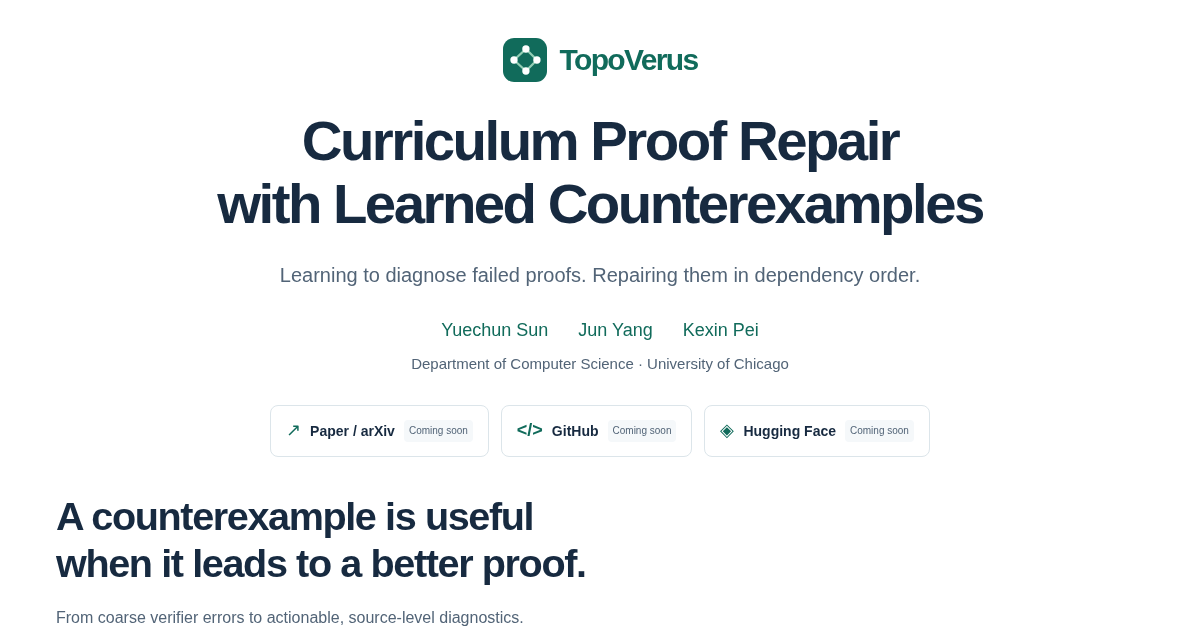
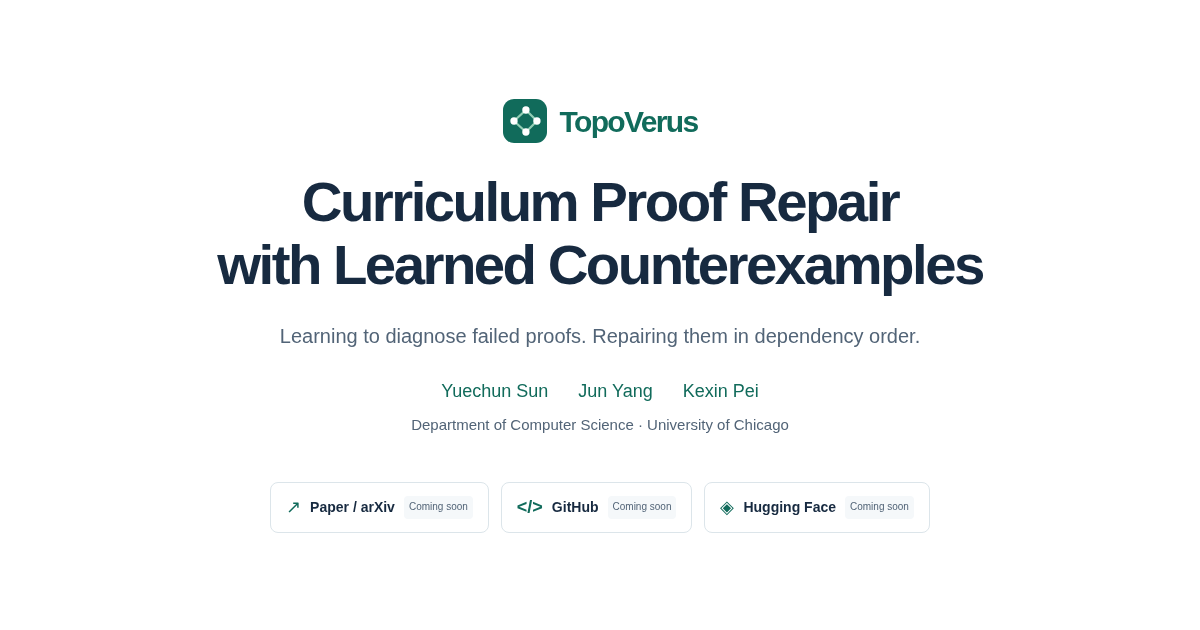
Polish share preview and format stylesheet

diff --git a/styles.css b/styles.css
@@ -1,1 +1,211 @@
-:root{--ink:#172a40;--muted:#526477;--green:#116b5b;--green-soft:#edf7f2;--blue:#285aae;--line:#dce5ea;--surface:#f5f8fa;--white:#fff;font-family:"Avenir Next","Segoe UI",sans-serif;color:var(--ink);background:var(--white);font-synthesis:none}*{box-sizing:border-box}html{scroll-behavior:smooth;scroll-padding-top:90px}body{margin:0;line-height:1.65}a{color:var(--green);text-decoration:none}a:hover{text-decoration:underline}button{font:inherit;cursor:pointer}button,a{-webkit-tap-highlight-color:transparent}button:focus-visible,a:focus-visible,[tabindex]:focus-visible{outline:3px solid var(--blue);outline-offset:5px}img{max-width:100%;height:auto}p{margin:0 0 1em}h1,h2,h3{line-height:1.2;margin:0;font-weight:650;letter-spacing:-.035em}h2{font-size:clamp(29px,3.3vw,42px)}h3{font-size:20px;letter-spacing:-.02em}.wrap{max-width:1160px;margin:auto;padding-left:36px;padding-right:36px}.section{padding-top:90px;padding-bottom:90px}.header{border-bottom:1px solid var(--line);background:rgba(255,255,255,.96);position:sticky;top:0;z-index:20}.nav{height:72px;display:flex;align-items:center;justify-content:space-between;gap:24px}.brand{display:flex;align-items:center;gap:10px;font-weight:750;font-size:20px;letter-spacing:-.035em;color:var(--ink)}.nav-links{display:flex;gap:29px;font-size:14px;font-weight:550}.nav-links a{color:var(--muted)}.skip{position:fixed;left:15px;top:-80px;z-index:100;padding:12px;background:white}.skip:focus{top:10px}.hero{text-align:center;padding-top:67px;padding-bottom:58px}.project-mark{display:flex;align-items:center;justify-content:center;gap:13px;font-size:30px;font-weight:750;letter-spacing:-.055em;color:var(--green);margin-bottom:24px}h1{font-size:clamp(34px,4.7vw,58px);line-height:1.12;letter-spacing:-.045em}.hero-summary{font-size:20px;color:var(--muted);margin:24px 0}.mobile-break{display:none}.authors{display:flex;justify-content:center;gap:30px;margin:0 0 6px;font-size:18px}.affiliation{font-size:15px;color:var(--muted)}.resource-links{display:flex;justify-content:center;gap:12px;flex-wrap:wrap;margin:29px 0 43px}.resource{display:flex;align-items:center;gap:9px;padding:10px 15px;border:1px solid var(--line);border-radius:8px;font-weight:600;font-size:14px;color:var(--ink);background:#fff}.resource small{font-size:10px;font-weight:500;color:var(--muted);background:var(--surface);border-radius:4px;padding:3px 5px}.resource[aria-disabled=true]{cursor:default}.resource[aria-disabled=true]:hover{text-decoration:none}.resource>span{font-size:18px;color:var(--green)}.hero-diagram{background:var(--surface);border:1px solid var(--line);border-radius:16px;display:grid;grid-template-columns:1fr 25px 1fr 25px 1fr 25px 1fr;padding:30px 30px 0;align-items:center;text-align:center}.flow-node{display:flex;align-items:center;flex-direction:column;gap:5px}.flow-symbol{display:grid;place-items:center;color:var(--blue);background:#e8eef8;width:38px;height:38px;font-family:Georgia,serif;font-size:26px;border-radius:10px;margin-bottom:6px}.flow-symbol.error{color:#a04946;background:#f7e9e7}.flow-symbol.success{color:var(--green);background:#e0efe7}.flow-node strong{font-size:15px}.flow-node>span:last-child{font-size:12px;color:var(--muted)}.flow-arrow{color:#8296a4;font-size:25px}.flow-caption{grid-column:1/-1;border-top:1px solid var(--line);margin-top:26px;padding:12px;font-size:12px;color:var(--green);font-weight:550}.section-heading>p{color:var(--muted);margin:17px 0 0;max-width:64ch}.overview{padding-top:36px}.overview .section-heading{margin-bottom:28px}.overview-copy{font-size:17px;max-width:84ch}.findings{display:grid;grid-template-columns:repeat(4,1fr);gap:24px;margin:37px 0 16px;padding:27px 0;border-top:1px solid var(--line);border-bottom:1px solid var(--line)}.findings>div{display:flex;flex-direction:column;gap:5px}.findings strong{font-size:40px;line-height:1.1;font-weight:650;letter-spacing:-.045em;color:var(--green)}.findings strong span{font-size:24px}.findings>div>span{font-size:13px;color:var(--muted)}.note{font-size:12px;color:var(--muted);line-height:1.6;margin-bottom:0}.method-band{background:var(--surface);border-block:1px solid var(--line)}.explorer{display:grid;grid-template-columns:1fr 1.45fr;gap:35px;margin:40px 0}.step-list{display:flex;flex-direction:column;justify-content:center;gap:10px}.step{display:flex;gap:15px;align-items:flex-start;text-align:left;padding:19px 17px;border:1px solid transparent;border-radius:10px;background:transparent;color:var(--muted);width:100%}.step>span{border:1px solid #b8c8d0;border-radius:50%;width:28px;height:28px;flex-shrink:0;display:grid;place-items:center;font-size:13px}.step strong{font-size:15px;color:var(--ink)}.step p{font-size:13px;margin:5px 0 0}.step.active{background:var(--white);border-color:#b8d8cb;box-shadow:0 3px 10px #172a4006}.step.active>span{background:var(--green);color:#fff;border-color:var(--green)}.graph-panel{background:white;border:1px solid var(--line);border-radius:14px;padding:22px}.dependency-graph{width:100%;height:auto}.edges{stroke:#8fa3ae;color:#8fa3ae}.scc{fill:#f5f8fa;stroke:#b9c9d2;stroke-dasharray:5 5}.scc-label{fill:var(--muted);font-size:13px}.invariant rect{fill:#fff;stroke:#c9d5dc;stroke-width:1.5}.invariant text{fill:#64798b;font-size:26px;font-weight:600}.invariant.reached rect{fill:#e4f4eb;stroke:var(--green)}.invariant.reached text{fill:var(--green)}.stage-detail{border-top:1px solid var(--line);padding-top:18px;min-height:113px}.stage-detail code{color:var(--green);font-size:14px}.stage-detail p{font-size:14px;color:var(--muted);margin-top:8px}.graph-panel>.note{margin-top:10px}.method-notes{display:grid;grid-template-columns:repeat(3,1fr);gap:35px}.method-notes h3{font-size:18px;margin-bottom:12px}.method-notes p{font-size:14px;color:var(--muted);margin:0}.wide-figure{margin:34px 0 0}.wide-figure img{width:100%;border:1px solid var(--line);border-radius:8px;padding:12px;background:white}figcaption{font-size:13px;color:var(--muted);margin-top:14px;line-height:1.7}code{font-family:"SFMono-Regular",Consolas,"Liberation Mono",monospace;font-size:.91em}.results-band{background:#f7faf9;border-block:1px solid var(--line)}.result-topline{display:flex;align-items:center;justify-content:space-between;gap:20px;margin:35px 0 22px}.result-topline strong{font-size:24px;color:var(--green);letter-spacing:-.02em}.result-topline p{font-size:13px;color:var(--muted);margin:4px 0 0}.metric-toggle{display:flex;padding:4px;border:1px solid var(--line);border-radius:8px;background:#fff;flex-shrink:0}.metric-toggle button{font-size:13px;padding:8px 13px;border:0;background:none;border-radius:5px;color:var(--muted)}.metric-toggle button.active{background:var(--green);color:white}.table-scroll{overflow-x:auto;max-width:100%}table{border-collapse:collapse;width:100%;font-size:13px;text-align:right;font-variant-numeric:tabular-nums}caption{text-align:left;color:var(--muted);font-size:12px;padding:0 0 12px}th,td{padding:13px 12px;border-bottom:1px solid var(--line);white-space:nowrap}th:first-child{text-align:left}thead th{font-size:11px;font-weight:650;background:#eaf1ee}thead small{display:block;font-size:10px;font-weight:400;color:var(--muted);margin-top:3px}tbody th{font-weight:500}tbody tr{background:white}tbody tr.ours{background:#e3f2e9;color:#0e594c}tbody tr.ours th,tbody tr.ours td{font-weight:750}tbody th small{display:block;font-size:10px;font-weight:500}tbody tr:nth-child(6) th,tbody tr:nth-child(6) td{border-top:2px solid #cbd9d3}.table-scroll+.note{margin-top:15px}.result-caveat{font-size:14px;color:var(--muted);margin-top:16px;max-width:85ch}.scaling{margin-top:55px;border-top:1px solid var(--line);padding-top:40px;display:grid;grid-template-columns:1fr 2fr;gap:36px}.scaling h3{font-size:26px;margin-bottom:17px}.scaling p{font-size:14px;color:var(--muted)}.scaling-plots{min-width:0}.legend{display:block;width:84%;margin:0 auto 20px}.plot-pair{display:grid;grid-template-columns:1fr 1fr;gap:20px}.plot-pair figure{margin:0}.plot-pair img{display:block;width:100%}.plot-pair figcaption{text-align:center;font-size:12px}.transfer-layout{display:grid;grid-template-columns:1fr 1.2fr;gap:40px;margin-top:35px}.transfer-layout p{font-size:15px;color:var(--muted)}.transfer table{font-size:12px}.transfer th,.transfer td{padding:15px 12px}.resources-section{background:var(--surface);border-block:1px solid var(--line)}.release-list{display:grid;grid-template-columns:repeat(3,1fr);gap:35px;margin:35px 0 50px}.release-list>div{border-top:2px solid #c1d4ce;padding-top:20px}.release-list p{font-size:14px;color:var(--muted);margin:12px 0;max-width:28ch}.release-list a{font-size:13px;font-weight:650}.release-list a[aria-disabled=true]{color:var(--muted);cursor:default}.release-list a[aria-disabled=true]:hover{text-decoration:none}.citation-heading{display:flex;align-items:center;gap:15px;margin-bottom:14px}.citation-heading button{margin-left:auto;border:1px solid #c8d3dd;padding:7px 12px;background:#fff;color:var(--ink);font-size:12px;border-radius:6px}#copy-status{font-size:12px;color:var(--green)}.citation{margin:0 0 12px;background:#fff;border:1px solid var(--line);padding:24px;border-radius:8px;overflow-x:auto;font-size:13px;line-height:1.7}footer{display:flex;align-items:center;justify-content:space-between;gap:20px;padding-top:28px;padding-bottom:28px;font-size:12px;color:var(--muted)}footer p{margin:0}footer .brand{font-size:16px}[hidden]{display:none!important}@media(min-width:1500px){.hero{padding-top:85px}}@media(max-width:800px){.wrap{padding-left:24px;padding-right:24px}.section{padding-top:65px;padding-bottom:65px}.hero{padding-top:45px}.nav-links{gap:17px;font-size:12px}.hero-diagram{padding:24px 15px 0;grid-template-columns:1fr 18px 1fr 18px 1fr 18px 1fr}.flow-node strong{font-size:12px}.flow-node>span:last-child{font-size:10px}.explorer{grid-template-columns:1fr;gap:22px}.step-list{flex-direction:row;gap:5px}.step{padding:12px;gap:8px}.step strong{font-size:12px}.step p{display:none}.method-notes{gap:22px}.result-topline{align-items:flex-start;flex-direction:column}.scaling{grid-template-columns:1fr}.transfer-layout{grid-template-columns:1fr;gap:20px}.overview{padding-top:20px}}@media(max-width:520px){.wrap{padding-left:20px;padding-right:20px}.nav{height:64px;gap:12px}.brand{font-size:17px;gap:7px}.nav-links{gap:15px}.nav-links a:first-child{display:none}.nav-links a:last-child{display:none}.project-mark{font-size:25px;margin-bottom:22px}.project-mark img{width:35px}h1{font-size:35px}.hero-summary{font-size:17px}.mobile-break{display:block}.authors{font-size:15px;gap:17px}.affiliation{font-size:12px}.resource-links{gap:8px;margin-bottom:30px}.resource{padding:8px 10px;font-size:12px;gap:7px}.resource small{font-size:9px}.resource>span{font-size:14px}.hero-diagram{grid-template-columns:1fr 22px 1fr;gap:20px 0;padding-top:23px}.hero-diagram>.flow-arrow:nth-child(4){display:none}.flow-node strong{font-size:13px}.flow-node>span:last-child{font-size:10px}.flow-caption{margin-top:0;font-size:10px;padding:11px 0}.findings{grid-template-columns:1fr 1fr;gap:25px 15px}.findings strong{font-size:34px}.findings>div>span{font-size:11px}.step-list{flex-direction:column;gap:6px}.step{align-items:center;padding:12px}.step strong{font-size:14px}.step p{display:block;font-size:12px}.graph-panel{padding:15px}.method-notes{grid-template-columns:1fr;gap:23px}.method-notes p{font-size:14px}.stage-detail code{font-size:12px}.wide-figure img{padding:3px;border-radius:3px}.plot-pair{grid-template-columns:1fr}.legend{width:100%}.release-list{grid-template-columns:1fr;gap:24px}.release-list p{max-width:none}.citation{font-size:11px;padding:16px}footer{flex-wrap:wrap;gap:15px}footer p{font-size:11px}footer>a:last-child{margin-left:auto}}@media(prefers-reduced-motion:reduce){html{scroll-behavior:auto}}@media print{.header,.resource-links,.metric-toggle,.step-list,#copy-citation{display:none}.section{padding-top:30px;padding-bottom:30px}.hero{padding-top:15px}.wrap{max-width:none}.table-scroll{overflow:visible}body{font-size:11pt}h2{font-size:24pt}a{color:inherit}.explorer{display:block}figure,table{break-inside:avoid}}
+:root{--ink:#172a40;--muted:#526477;--green:#116b5b;--green-soft:#edf7f2;--blue:#285aae;--line:#dce5ea;--surface:#f5f8fa;--white:#fff;font-family:"Avenir Next","Segoe UI",sans-serif;color:var(--ink);background:var(--white);font-synthesis:none}
+*{box-sizing:border-box}
+html{scroll-behavior:smooth;scroll-padding-top:90px}
+body{margin:0;line-height:1.65}
+a{color:var(--green);text-decoration:none}
+a:hover{text-decoration:underline}
+button{font:inherit;cursor:pointer}
+button,a{-webkit-tap-highlight-color:transparent}
+button:focus-visible,a:focus-visible,[tabindex]:focus-visible{outline:3px solid var(--blue);outline-offset:5px}
+img{max-width:100%;height:auto}
+p{margin:0 0 1em}
+h1,h2,h3{line-height:1.2;margin:0;font-weight:650;letter-spacing:-.035em}
+h2{font-size:clamp(29px,3.3vw,42px)}
+h3{font-size:20px;letter-spacing:-.02em}
+.wrap{max-width:1160px;margin:auto;padding-left:36px;padding-right:36px}
+.section{padding-top:90px;padding-bottom:90px}
+.header{border-bottom:1px solid var(--line);background:rgba(255,255,255,.96);position:sticky;top:0;z-index:20}
+.nav{height:72px;display:flex;align-items:center;justify-content:space-between;gap:24px}
+.brand{display:flex;align-items:center;gap:10px;font-weight:750;font-size:20px;letter-spacing:-.035em;color:var(--ink)}
+.nav-links{display:flex;gap:29px;font-size:14px;font-weight:550}
+.nav-links a{color:var(--muted)}
+.skip{position:fixed;left:15px;top:-80px;z-index:100;padding:12px;background:white}
+.skip:focus{top:10px}
+.hero{text-align:center;padding-top:67px;padding-bottom:58px}
+.project-mark{display:flex;align-items:center;justify-content:center;gap:13px;font-size:30px;font-weight:750;letter-spacing:-.055em;color:var(--green);margin-bottom:24px}
+h1{font-size:clamp(34px,4.7vw,58px);line-height:1.12;letter-spacing:-.045em}
+.hero-summary{font-size:20px;color:var(--muted);margin:24px 0}
+.mobile-break{display:none}
+.authors{display:flex;justify-content:center;gap:30px;margin:0 0 6px;font-size:18px}
+.affiliation{font-size:15px;color:var(--muted)}
+.resource-links{display:flex;justify-content:center;gap:12px;flex-wrap:wrap;margin:29px 0 43px}
+.resource{display:flex;align-items:center;gap:9px;padding:10px 15px;border:1px solid var(--line);border-radius:8px;font-weight:600;font-size:14px;color:var(--ink);background:#fff}
+.resource small{font-size:10px;font-weight:500;color:var(--muted);background:var(--surface);border-radius:4px;padding:3px 5px}
+.resource[aria-disabled=true]{cursor:default}
+.resource[aria-disabled=true]:hover{text-decoration:none}
+.resource>span{font-size:18px;color:var(--green)}
+.hero-diagram{background:var(--surface);border:1px solid var(--line);border-radius:16px;display:grid;grid-template-columns:1fr 25px 1fr 25px 1fr 25px 1fr;padding:30px 30px 0;align-items:center;text-align:center}
+.flow-node{display:flex;align-items:center;flex-direction:column;gap:5px}
+.flow-symbol{display:grid;place-items:center;color:var(--blue);background:#e8eef8;width:38px;height:38px;font-family:Georgia,serif;font-size:26px;border-radius:10px;margin-bottom:6px}
+.flow-symbol.error{color:#a04946;background:#f7e9e7}
+.flow-symbol.success{color:var(--green);background:#e0efe7}
+.flow-node strong{font-size:15px}
+.flow-node>span:last-child{font-size:12px;color:var(--muted)}
+.flow-arrow{color:#8296a4;font-size:25px}
+.flow-caption{grid-column:1/-1;border-top:1px solid var(--line);margin-top:26px;padding:12px;font-size:12px;color:var(--green);font-weight:550}
+.section-heading>p{color:var(--muted);margin:17px 0 0;max-width:64ch}
+.overview{padding-top:36px}
+.overview .section-heading{margin-bottom:28px}
+.overview-copy{font-size:17px;max-width:84ch}
+.findings{display:grid;grid-template-columns:repeat(4,1fr);gap:24px;margin:37px 0 16px;padding:27px 0;border-top:1px solid var(--line);border-bottom:1px solid var(--line)}
+.findings>div{display:flex;flex-direction:column;gap:5px}
+.findings strong{font-size:40px;line-height:1.1;font-weight:650;letter-spacing:-.045em;color:var(--green)}
+.findings strong span{font-size:24px}
+.findings>div>span{font-size:13px;color:var(--muted)}
+.note{font-size:12px;color:var(--muted);line-height:1.6;margin-bottom:0}
+.method-band{background:var(--surface);border-block:1px solid var(--line)}
+.explorer{display:grid;grid-template-columns:1fr 1.45fr;gap:35px;margin:40px 0}
+.step-list{display:flex;flex-direction:column;justify-content:center;gap:10px}
+.step{display:flex;gap:15px;align-items:flex-start;text-align:left;padding:19px 17px;border:1px solid transparent;border-radius:10px;background:transparent;color:var(--muted);width:100%}
+.step>span{border:1px solid #b8c8d0;border-radius:50%;width:28px;height:28px;flex-shrink:0;display:grid;place-items:center;font-size:13px}
+.step strong{font-size:15px;color:var(--ink)}
+.step p{font-size:13px;margin:5px 0 0}
+.step.active{background:var(--white);border-color:#b8d8cb;box-shadow:0 3px 10px #172a4006}
+.step.active>span{background:var(--green);color:#fff;border-color:var(--green)}
+.graph-panel{background:white;border:1px solid var(--line);border-radius:14px;padding:22px}
+.dependency-graph{width:100%;height:auto}
+.edges{stroke:#8fa3ae;color:#8fa3ae}
+.scc{fill:#f5f8fa;stroke:#b9c9d2;stroke-dasharray:5 5}
+.scc-label{fill:var(--muted);font-size:13px}
+.invariant rect{fill:#fff;stroke:#c9d5dc;stroke-width:1.5}
+.invariant text{fill:#64798b;font-size:26px;font-weight:600}
+.invariant.reached rect{fill:#e4f4eb;stroke:var(--green)}
+.invariant.reached text{fill:var(--green)}
+.stage-detail{border-top:1px solid var(--line);padding-top:18px;min-height:113px}
+.stage-detail code{color:var(--green);font-size:14px}
+.stage-detail p{font-size:14px;color:var(--muted);margin-top:8px}
+.graph-panel>.note{margin-top:10px}
+.method-notes{display:grid;grid-template-columns:repeat(3,1fr);gap:35px}
+.method-notes h3{font-size:18px;margin-bottom:12px}
+.method-notes p{font-size:14px;color:var(--muted);margin:0}
+.wide-figure{margin:34px 0 0}
+.wide-figure img{width:100%;border:1px solid var(--line);border-radius:8px;padding:12px;background:white}
+figcaption{font-size:13px;color:var(--muted);margin-top:14px;line-height:1.7}
+code{font-family:"SFMono-Regular",Consolas,"Liberation Mono",monospace;font-size:.91em}
+.results-band{background:#f7faf9;border-block:1px solid var(--line)}
+.result-topline{display:flex;align-items:center;justify-content:space-between;gap:20px;margin:35px 0 22px}
+.result-topline strong{font-size:24px;color:var(--green);letter-spacing:-.02em}
+.result-topline p{font-size:13px;color:var(--muted);margin:4px 0 0}
+.metric-toggle{display:flex;padding:4px;border:1px solid var(--line);border-radius:8px;background:#fff;flex-shrink:0}
+.metric-toggle button{font-size:13px;padding:8px 13px;border:0;background:none;border-radius:5px;color:var(--muted)}
+.metric-toggle button.active{background:var(--green);color:white}
+.table-scroll{overflow-x:auto;max-width:100%}
+table{border-collapse:collapse;width:100%;font-size:13px;text-align:right;font-variant-numeric:tabular-nums}
+caption{text-align:left;color:var(--muted);font-size:12px;padding:0 0 12px}
+th,td{padding:13px 12px;border-bottom:1px solid var(--line);white-space:nowrap}
+th:first-child{text-align:left}
+thead th{font-size:11px;font-weight:650;background:#eaf1ee}
+thead small{display:block;font-size:10px;font-weight:400;color:var(--muted);margin-top:3px}
+tbody th{font-weight:500}
+tbody tr{background:white}
+tbody tr.ours{background:#e3f2e9;color:#0e594c}
+tbody tr.ours th,tbody tr.ours td{font-weight:750}
+tbody th small{display:block;font-size:10px;font-weight:500}
+tbody tr:nth-child(6) th,tbody tr:nth-child(6) td{border-top:2px solid #cbd9d3}
+.table-scroll+.note{margin-top:15px}
+.result-caveat{font-size:14px;color:var(--muted);margin-top:16px;max-width:85ch}
+.scaling{margin-top:55px;border-top:1px solid var(--line);padding-top:40px;display:grid;grid-template-columns:1fr 2fr;gap:36px}
+.scaling h3{font-size:26px;margin-bottom:17px}
+.scaling p{font-size:14px;color:var(--muted)}
+.scaling-plots{min-width:0}
+.legend{display:block;width:84%;margin:0 auto 20px}
+.plot-pair{display:grid;grid-template-columns:1fr 1fr;gap:20px}
+.plot-pair figure{margin:0}
+.plot-pair img{display:block;width:100%}
+.plot-pair figcaption{text-align:center;font-size:12px}
+.transfer-layout{display:grid;grid-template-columns:1fr 1.2fr;gap:40px;margin-top:35px}
+.transfer-layout p{font-size:15px;color:var(--muted)}
+.transfer table{font-size:12px}
+.transfer th,.transfer td{padding:15px 12px}
+.resources-section{background:var(--surface);border-block:1px solid var(--line)}
+.release-list{display:grid;grid-template-columns:repeat(3,1fr);gap:35px;margin:35px 0 50px}
+.release-list>div{border-top:2px solid #c1d4ce;padding-top:20px}
+.release-list p{font-size:14px;color:var(--muted);margin:12px 0;max-width:28ch}
+.release-list a{font-size:13px;font-weight:650}
+.release-list a[aria-disabled=true]{color:var(--muted);cursor:default}
+.release-list a[aria-disabled=true]:hover{text-decoration:none}
+.citation-heading{display:flex;align-items:center;gap:15px;margin-bottom:14px}
+.citation-heading button{margin-left:auto;border:1px solid #c8d3dd;padding:7px 12px;background:#fff;color:var(--ink);font-size:12px;border-radius:6px}
+#copy-status{font-size:12px;color:var(--green)}
+.citation{margin:0 0 12px;background:#fff;border:1px solid var(--line);padding:24px;border-radius:8px;overflow-x:auto;font-size:13px;line-height:1.7}
+footer{display:flex;align-items:center;justify-content:space-between;gap:20px;padding-top:28px;padding-bottom:28px;font-size:12px;color:var(--muted)}
+footer p{margin:0}
+footer .brand{font-size:16px}
+[hidden]{display:none!important}
+@media(min-width:1500px){.hero{padding-top:85px}
+}
+@media(max-width:800px){.wrap{padding-left:24px;padding-right:24px}
+.section{padding-top:65px;padding-bottom:65px}
+.hero{padding-top:45px}
+.nav-links{gap:17px;font-size:12px}
+.hero-diagram{padding:24px 15px 0;grid-template-columns:1fr 18px 1fr 18px 1fr 18px 1fr}
+.flow-node strong{font-size:12px}
+.flow-node>span:last-child{font-size:10px}
+.explorer{grid-template-columns:1fr;gap:22px}
+.step-list{flex-direction:row;gap:5px}
+.step{padding:12px;gap:8px}
+.step strong{font-size:12px}
+.step p{display:none}
+.method-notes{gap:22px}
+.result-topline{align-items:flex-start;flex-direction:column}
+.scaling{grid-template-columns:1fr}
+.transfer-layout{grid-template-columns:1fr;gap:20px}
+.overview{padding-top:20px}
+}
+@media(max-width:520px){.wrap{padding-left:20px;padding-right:20px}
+.nav{height:64px;gap:12px}
+.brand{font-size:17px;gap:7px}
+.nav-links{gap:15px}
+.nav-links a:first-child{display:none}
+.nav-links a:last-child{display:none}
+.project-mark{font-size:25px;margin-bottom:22px}
+.project-mark img{width:35px}
+h1{font-size:35px}
+.hero-summary{font-size:17px}
+.mobile-break{display:block}
+.authors{font-size:15px;gap:17px}
+.affiliation{font-size:12px}
+.resource-links{gap:8px;margin-bottom:30px}
+.resource{padding:8px 10px;font-size:12px;gap:7px}
+.resource small{font-size:9px}
+.resource>span{font-size:14px}
+.hero-diagram{grid-template-columns:1fr 22px 1fr;gap:20px 0;padding-top:23px}
+.hero-diagram>.flow-arrow:nth-child(4){display:none}
+.flow-node strong{font-size:13px}
+.flow-node>span:last-child{font-size:10px}
+.flow-caption{margin-top:0;font-size:10px;padding:11px 0}
+.findings{grid-template-columns:1fr 1fr;gap:25px 15px}
+.findings strong{font-size:34px}
+.findings>div>span{font-size:11px}
+.step-list{flex-direction:column;gap:6px}
+.step{align-items:center;padding:12px}
+.step strong{font-size:14px}
+.step p{display:block;font-size:12px}
+.graph-panel{padding:15px}
+.method-notes{grid-template-columns:1fr;gap:23px}
+.method-notes p{font-size:14px}
+.stage-detail code{font-size:12px}
+.wide-figure img{padding:3px;border-radius:3px}
+.plot-pair{grid-template-columns:1fr}
+.legend{width:100%}
+.release-list{grid-template-columns:1fr;gap:24px}
+.release-list p{max-width:none}
+.citation{font-size:11px;padding:16px}
+footer{flex-wrap:wrap;gap:15px}
+footer p{font-size:11px}
+footer>a:last-child{margin-left:auto}
+}
+@media(prefers-reduced-motion:reduce){html{scroll-behavior:auto}
+}
+@media print{.header,.resource-links,.metric-toggle,.step-list,#copy-citation{display:none}
+.section{padding-top:30px;padding-bottom:30px}
+.hero{padding-top:15px}
+.wrap{max-width:none}
+.table-scroll{overflow:visible}
+body{font-size:11pt}
+h2{font-size:24pt}
+a{color:inherit}
+.explorer{display:block}
+figure,table{break-inside:avoid}
+}
+
